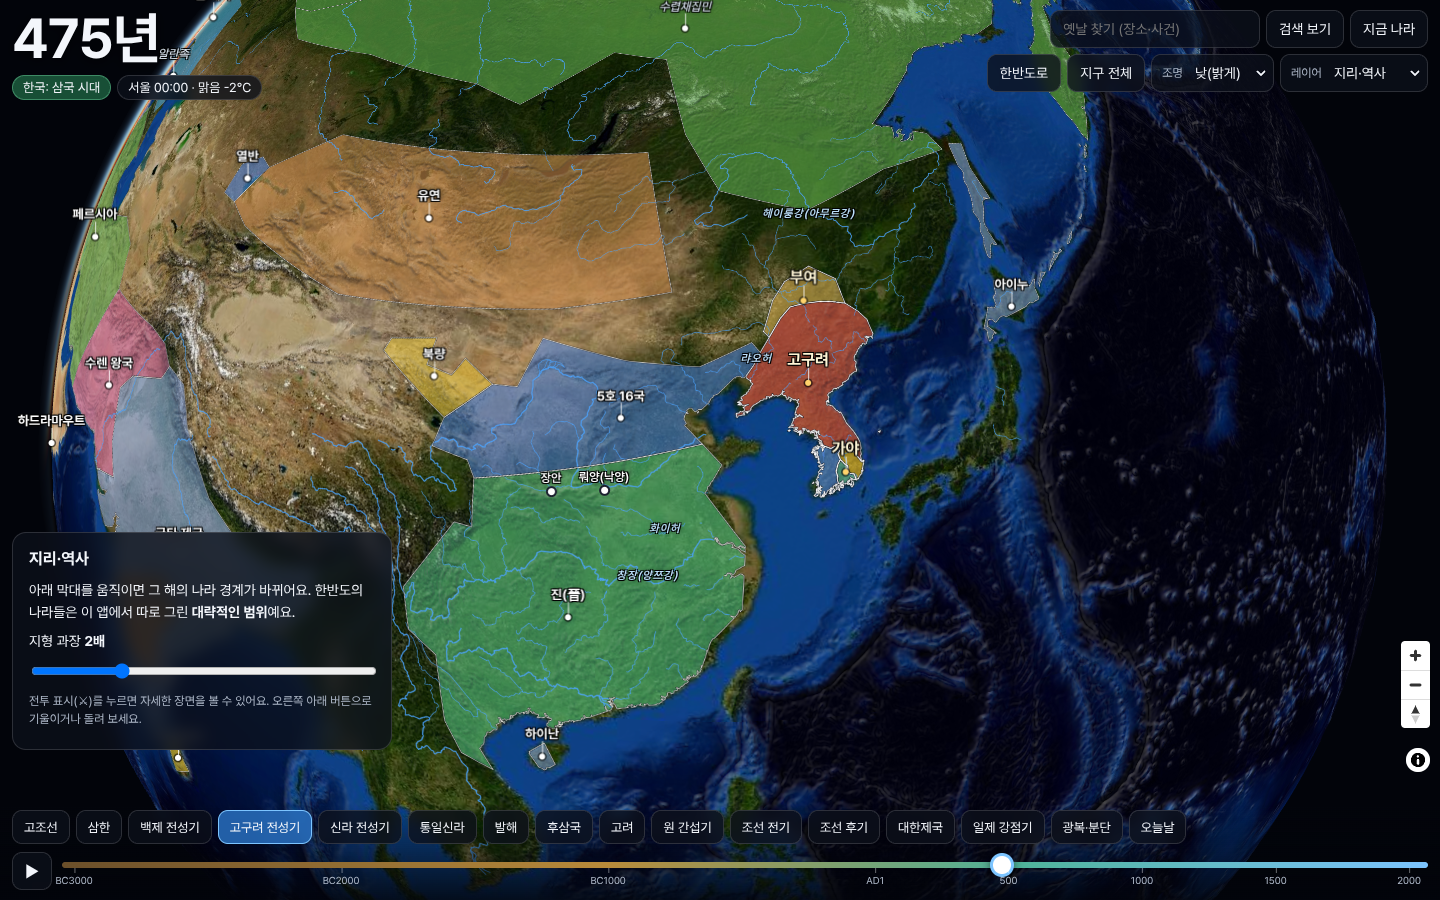
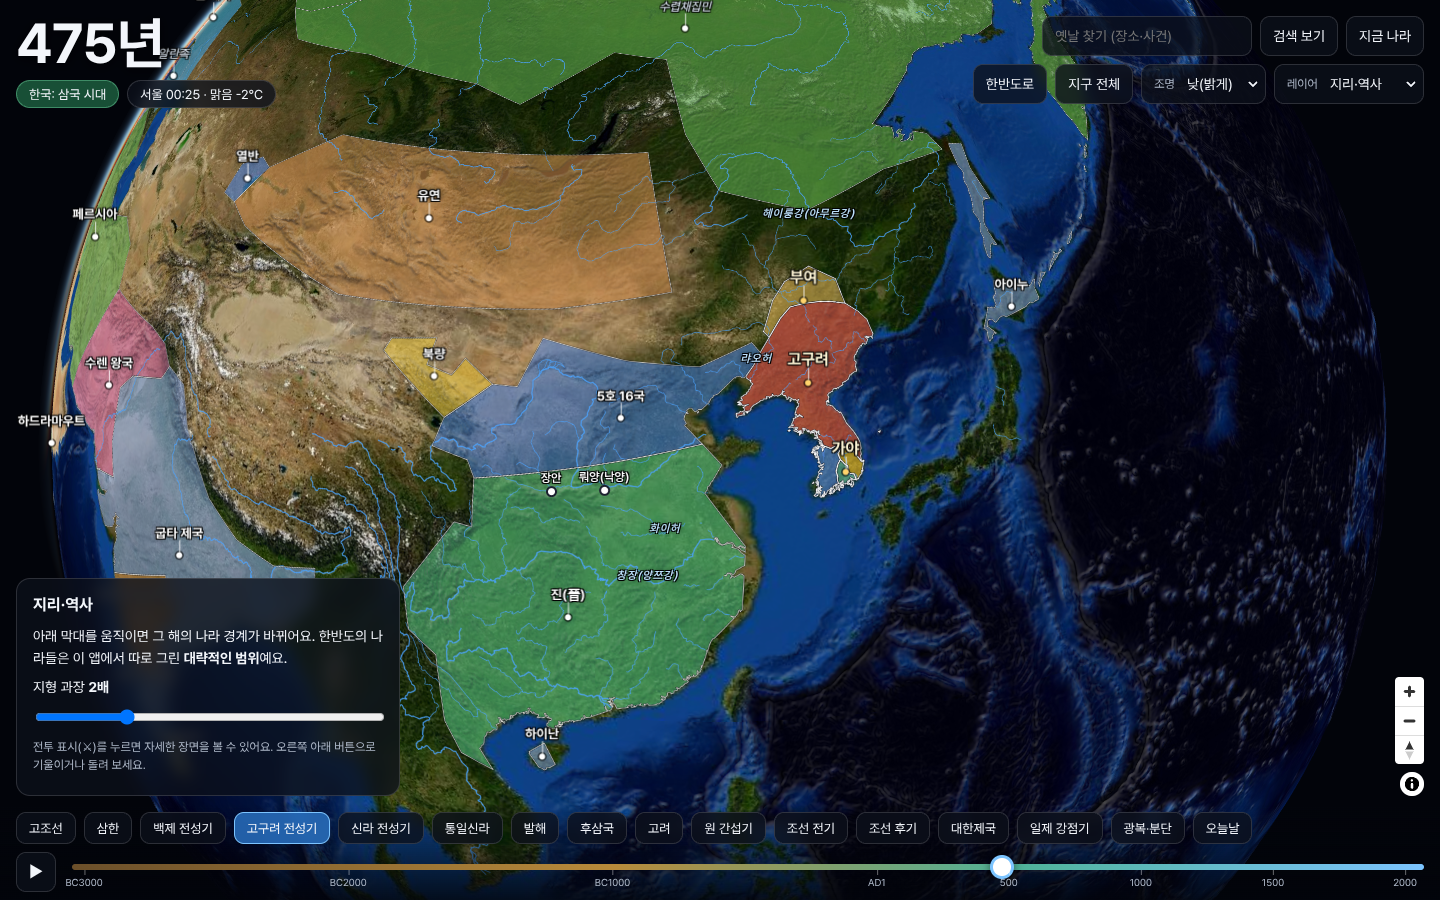
배포·라이브 검증 기록과 프로젝트 상태 갱신

diff --git a/PROJECT.md b/PROJECT.md
@@ -1,15 +1,15 @@
 ---
 name: historyearth
 title: 역사 지구본
-status: 테스트
+status: 운영
 priority: 보통
-progress: 80
+progress: 95
 stack: Vite, TypeScript, MapLibre GL(globe+terrain), Vitest, Playwright
 repo: 
-deploy: 
+deploy: https://historyearth.vercel.app
 run: npm run dev
 needs: Node 20+, Vercel(emergency-lee) 커넥터 배포
-next: 푸시·배포 후 라이브 검증
+next: GitHub 저장소 생성(커넥터 권한 403) 후 푸시
 created: 2026-11-20
 updated: 2026-11-20
 ---
@@ -25,7 +25,7 @@ updated: 2026-11-20
 |---|---|---|
 | 설치 | `npm install` | Node 20+ |
 | 개발 실행 | `npm run dev` | Vite |
-| 테스트 | `npm test` / `npx playwright test` | Vitest 32개, Playwright 8개(데스크톱 6, 모바일 2). `E2E_URL=https://historyearth.vercel.app`로 라이브 확인(`live_*` 스크린샷) |
+| 테스트 | `npm test` / `npx playwright test` | Vitest 32개, Playwright 13개(데스크톱 6, 화면 정렬 5, 모바일 2). `E2E_URL=https://historyearth.vercel.app`로 라이브 확인(`live_*` 스크린샷) |
 | 빌드 | `npm run build` | `dist/` 정적 파일 |
 | 데이터 | `bash scripts/fetch-raw.sh && npm run data` | `node scripts/fetch-temperature.mjs`(기온 격자) |
 | 배포 | Vercel 커넥터 upload_file + create_deployment | 팀 emergency-lee, 프로젝트 historyearth |
@@ -37,7 +37,7 @@ updated: 2026-11-20
 
 ## 필요사항
 - 환경변수: 없음
-- 계정/연결: 없음(무키 공개 타일: EOX, AWS Terrain, Open-Meteo)
+- 계정/연결: 없음(무키 공개 타일: NASA GIBS Blue Marble, EOX, AWS Terrain, Open-Meteo)
 - 외부 의존성: 위 타일 서버의 가용성
 
 ## 다음 할 일
@@ -50,3 +50,4 @@ updated: 2026-11-20
 ## 진행 로그
 - 2026-11-20 프로젝트 생성
 - 2026-11-20 지구본·타임라인·레이어 4종·전투 2곳·검색·모바일 구현, Vitest 32개 통과
+- 2026-11-20 지도 품질 개선(10m 해안선, 한반도 경계 재작성, Blue Marble·음영, 라벨) + 8px 격자 정렬·정렬 검사 테스트. Vercel 운영 배포·라이브 검증 13/13. GitHub 푸시는 커넥터 저장소 생성 권한 부족으로 보류

diff --git a/docs/PROGRESS.md b/docs/PROGRESS.md
@@ -21,3 +21,4 @@
 - 11-20 23:07 지도 위 버튼·패널 정렬 점검(개선 전, 5개 화면 크기): 여백 12/10px 섞임, 버튼 높이 38/34, 간격 6px, 검색 목록이 확대 버튼과 겹침, 태블릿에서 오른쪽 버튼 줄과 설명 패널 겹침 docs/screenshots/progress/2307-overlay-before-desktop-1440.png, docs/screenshots/progress/2307-overlay-before-laptop-1280.png, docs/screenshots/progress/2307-overlay-before-tablet-1024.png, docs/screenshots/progress/2307-overlay-before-phone-390.png, docs/screenshots/progress/2307-overlay-before-phone-844.png
 - 11-20 23:12 8px 격자로 정렬(바깥 여백 16, 간격 8, 버튼 높이 40·시대 버튼 32·배지 28, 안전 영역 반영, 가로 휴대폰도 메뉴 접기, 패널·확대 버튼 위치를 실제 크기로 계산), 정렬 검사 테스트 5개 통과 docs/screenshots/progress/2312-overlay-after-desktop-1440.png, docs/screenshots/progress/2312-overlay-after-laptop-1280.png, docs/screenshots/progress/2312-overlay-after-tablet-1024.png, docs/screenshots/progress/2312-overlay-after-phone-390.png, docs/screenshots/progress/2312-overlay-after-phone-844.png, docs/screenshots/progress/2312-overlay-after-phone-390-menu.png, docs/screenshots/progress/2312-overlay-after-phone-844-menu.png
 - 11-20 23:23 테스트 통과: Vitest 32/32, Playwright 13/13(데스크톱 6, 정렬 검사 5, 모바일 2)
+- 11-20 23:33 운영 재배포(정렬 개선판) 후 라이브 검증 통과: curl 200·형식 정상, Playwright 13/13(콘솔 오류 0) docs/screenshots/live_desktop_globe.png, docs/screenshots/live_mobile_globe.png
